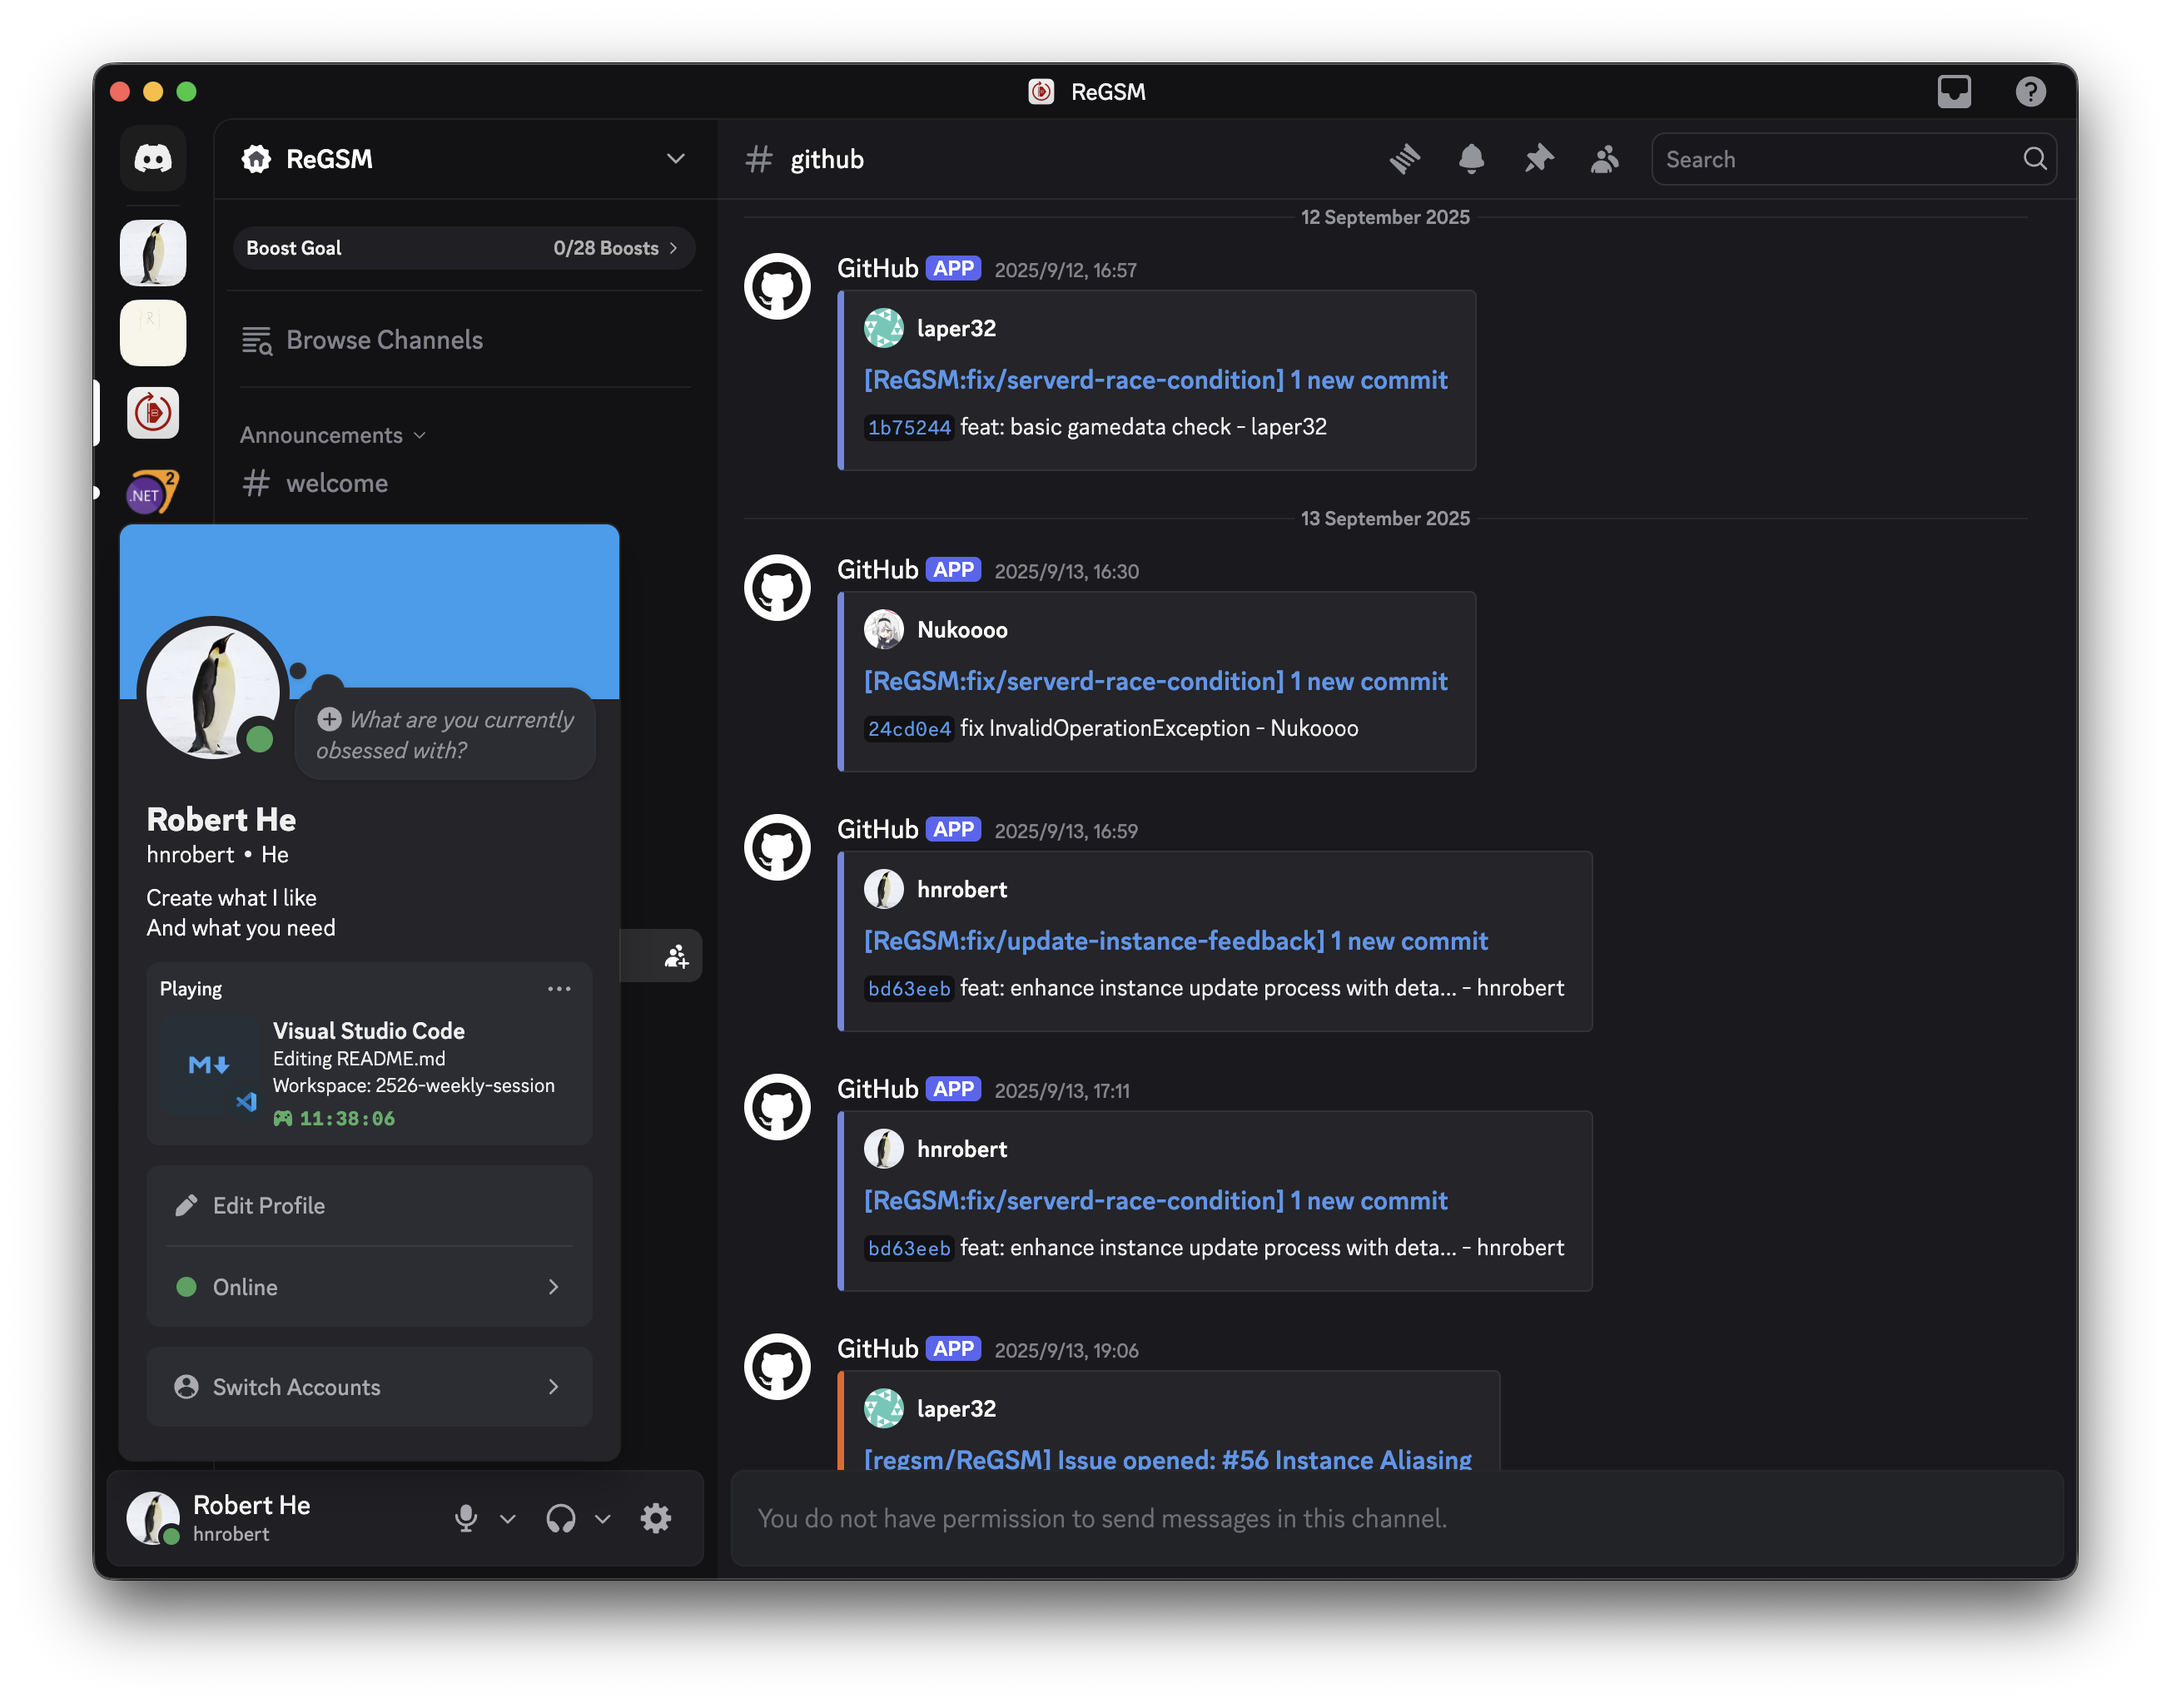
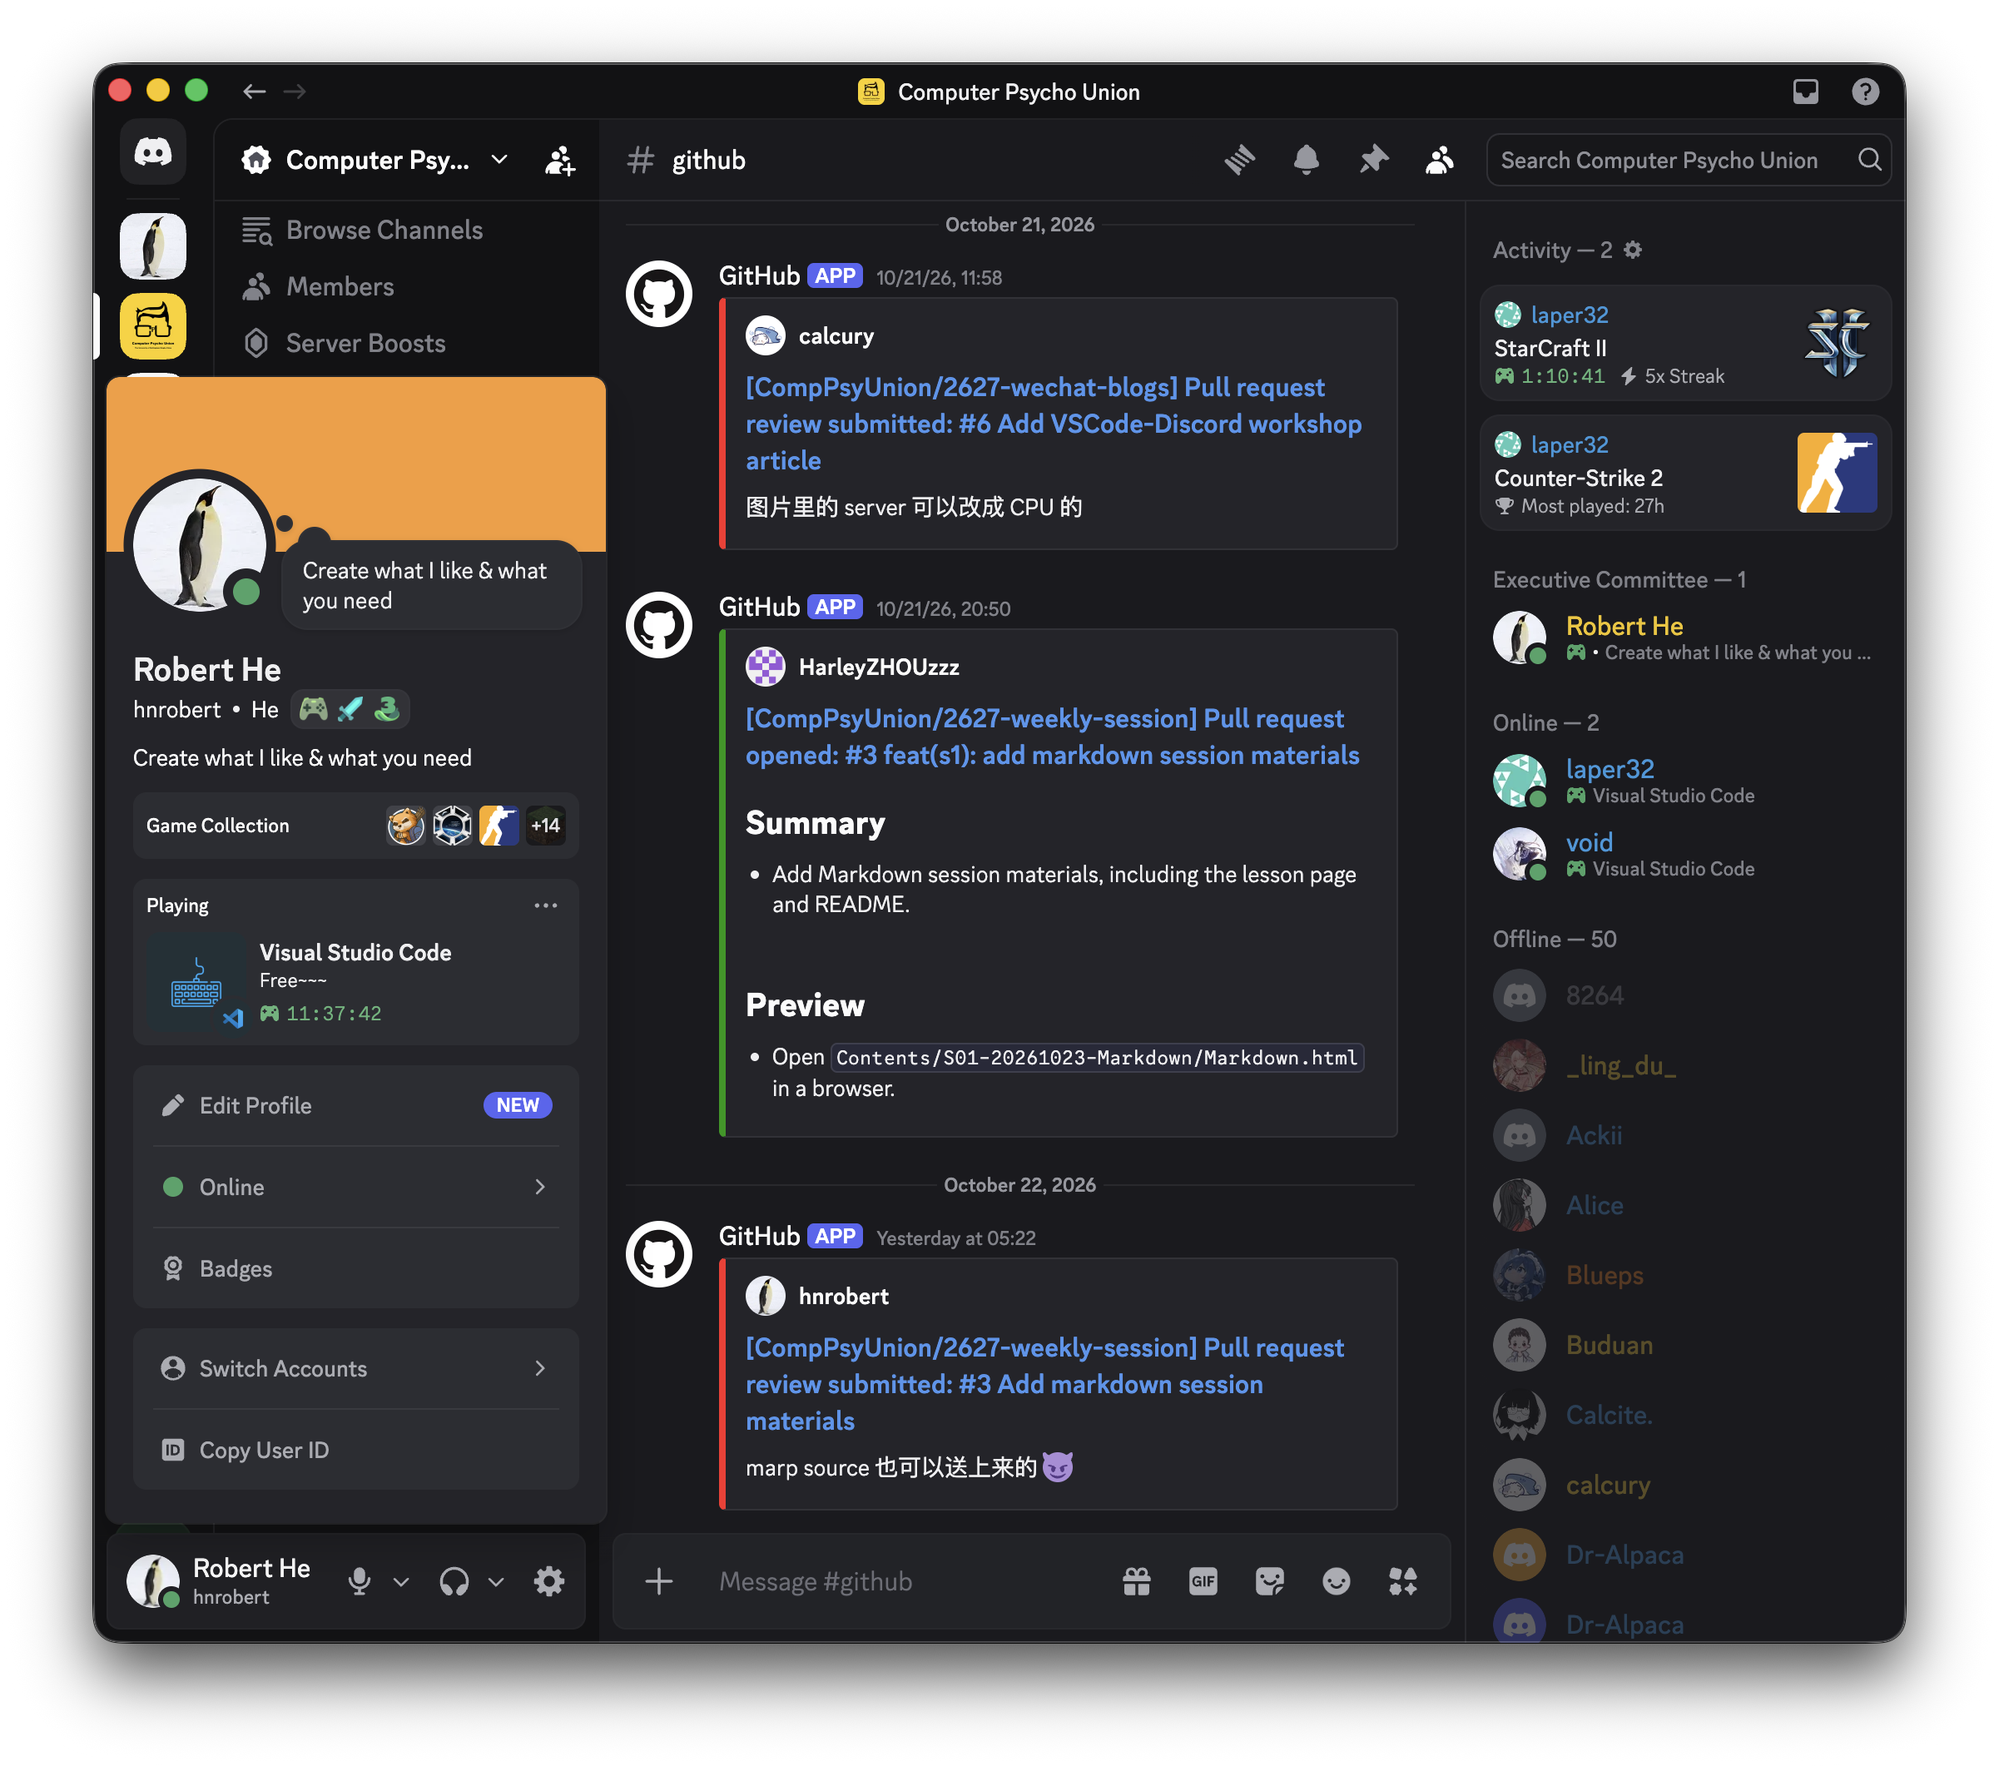
fix: update images, use discussion comment over star

diff --git a/blogs/software/hnrobert_show_your_coding_status_on_discord_via_proxy_webhook_and_a_simple_vscode_plugin/README.md b/blogs/software/hnrobert_show_your_coding_status_on_discord_via_proxy_webhook_and_a_simple_vscode_plugin/README.md
@@ -98,20 +98,20 @@ Discord 在开发者和游戏玩家中广泛用于交流和协作。但为什么
 ## 体验 Discord Presence 扩展和 GitHub 集成
 
 1. 确保你已按照上述步骤设置 Discord 和 SteamCommunity 代理服务。
-2. 在你的计算机上启动 Discord，并通过左侧的添加按钮加入一个 [Discord 服务器（右键复制链接）](https://discord.com/invite/5dVbWhEbQc)：点击下方的 `加入 Discord 服务器` 按钮，然后粘贴你复制的邀请链接：
+2. 在你的计算机上启动 Discord，并通过左侧的添加按钮加入一个 [Discord 服务器（右键复制链接）](https://discord.gg/5MtNmFRuVa)：点击下方的 `加入 Discord 服务器` 按钮，然后粘贴你复制的邀请链接：
    ![Discord 加入服务器](./assets/images/discord-join-server.png)
 
    你也可以直接在网页浏览器中访问上面的链接，确保你使用的是刚刚注册的账户或你一直在使用的账户，然后让它重定向到你的 Discord 应用以加入服务器。
 
 3. 在服务器中，你可以看到 Rich Presence 状态的示例（比如我的），并浏览添加了 GitHub Bot 的 `#github` 频道，看看它是如何工作的。
-4. 尝试在 GitHub 上为[此仓库](https://github.com/CompPsyUnion/2526-weekly-session)点星，并查看 Discord 中的 GitHub Bot 如何通知服务器你的操作。
-   ![GitHub 点星](./assets/images/github-star.png)
+4. 尝试在 GitHub 上进入[此仓库的讨论区](https://github.com/CompPsyUnion/2526-weekly-session/discussions/46)发布一条评论，看看 Discord 中的 GitHub Bot 会如何把你的操作通知给服务器的其他成员。
+   ![GitHub 讨论区评论](./assets/images/github-discussion-comment.png)
 
    **效果：**
 
    ![Discord GitHub Bot 效果](./assets/images/discord-github-bot-effect.png)
 
-> Webhook 是应用程序之间实时通信的一种方式。在 Discord 和 GitHub 的上下文中，可以设置 Webhook Bot 在 GitHub 仓库发生某些事件时向 Discord 频道发送通知，例如新提交、拉取请求或问题。  
+> Webhook 是应用程序之间实时通信的一种方式。在 Discord 和 GitHub 的上下文中，可以设置 Webhook Bot 在 GitHub 仓库发生某些事件时向 Discord 频道发送通知，例如新提交、拉取请求或问题。
 > Webhook 就像一个应用程序对另一个应用程序做出的承诺，说 "嘿，当这件事发生时，我会通过发送消息通知你"。在这种情况下，GitHub 承诺在仓库中发生重要事情时通知 Discord。
 >
 > 我们可能会在**未来的推文**中更多地介绍如何为 GitHub 设置 Discord Webhook Bot，甚至 Webhook 技术的一些进一步用法。

diff --git a/blogs/software/hnrobert_show_your_coding_status_on_discord_via_proxy_webhook_and_a_simple_vscode_plugin/README_en.md b/blogs/software/hnrobert_show_your_coding_status_on_discord_via_proxy_webhook_and_a_simple_vscode_plugin/README_en.md
@@ -98,14 +98,14 @@ Discord is widely used among developers and gamers for communication and collabo
 ## Experience Discord Presence Extension and GitHub Integration
 
 1. Make sure you have followed the steps above to set up Discord and SteamCommunity proxy service.
-2. Launch Discord on your computer and join a [Discord Server (right-click to copy the link)](https://discord.com/invite/5dVbWhEbQc) through the add button on the left: click the `Join Discord Server` button below and paste the invite link you copied:
+2. Launch Discord on your computer and join a [Discord Server (right-click to copy the link)](https://discord.gg/5MtNmFRuVa) through the add button on the left: click the `Join Discord Server` button below and paste the invite link you copied:
    ![Discord Join Server](./assets/images/discord-join-server.png)
 
    You may also just visit the link above in your web browser, make sure you're using your account that has just been registered or your account that you've always been using, and let it redirect you to your Discord app to join the server.
 
 3. In the server, you can see examples of rich presence status (such as mine), and browse through the `#github` channel with a GitHub Bot installed to see how it works.
-4. Try star [this repository](https://github.com/CompPsyUnion/2526-weekly-session) on GitHub, and see how the GitHub Bot in Discord notify the server about your action.
-   ![GitHub Star](./assets/images/github-star.png)
+4. Try leaving a comment in [this repository's discussion](https://github.com/CompPsyUnion/2526-weekly-session/discussions/46) on GitHub, and see how the GitHub Bot in Discord notifies the server about your action.
+   ![GitHub Discussion Comment](./assets/images/github-discussion-comment.png)
 
    **Effect:**
 
